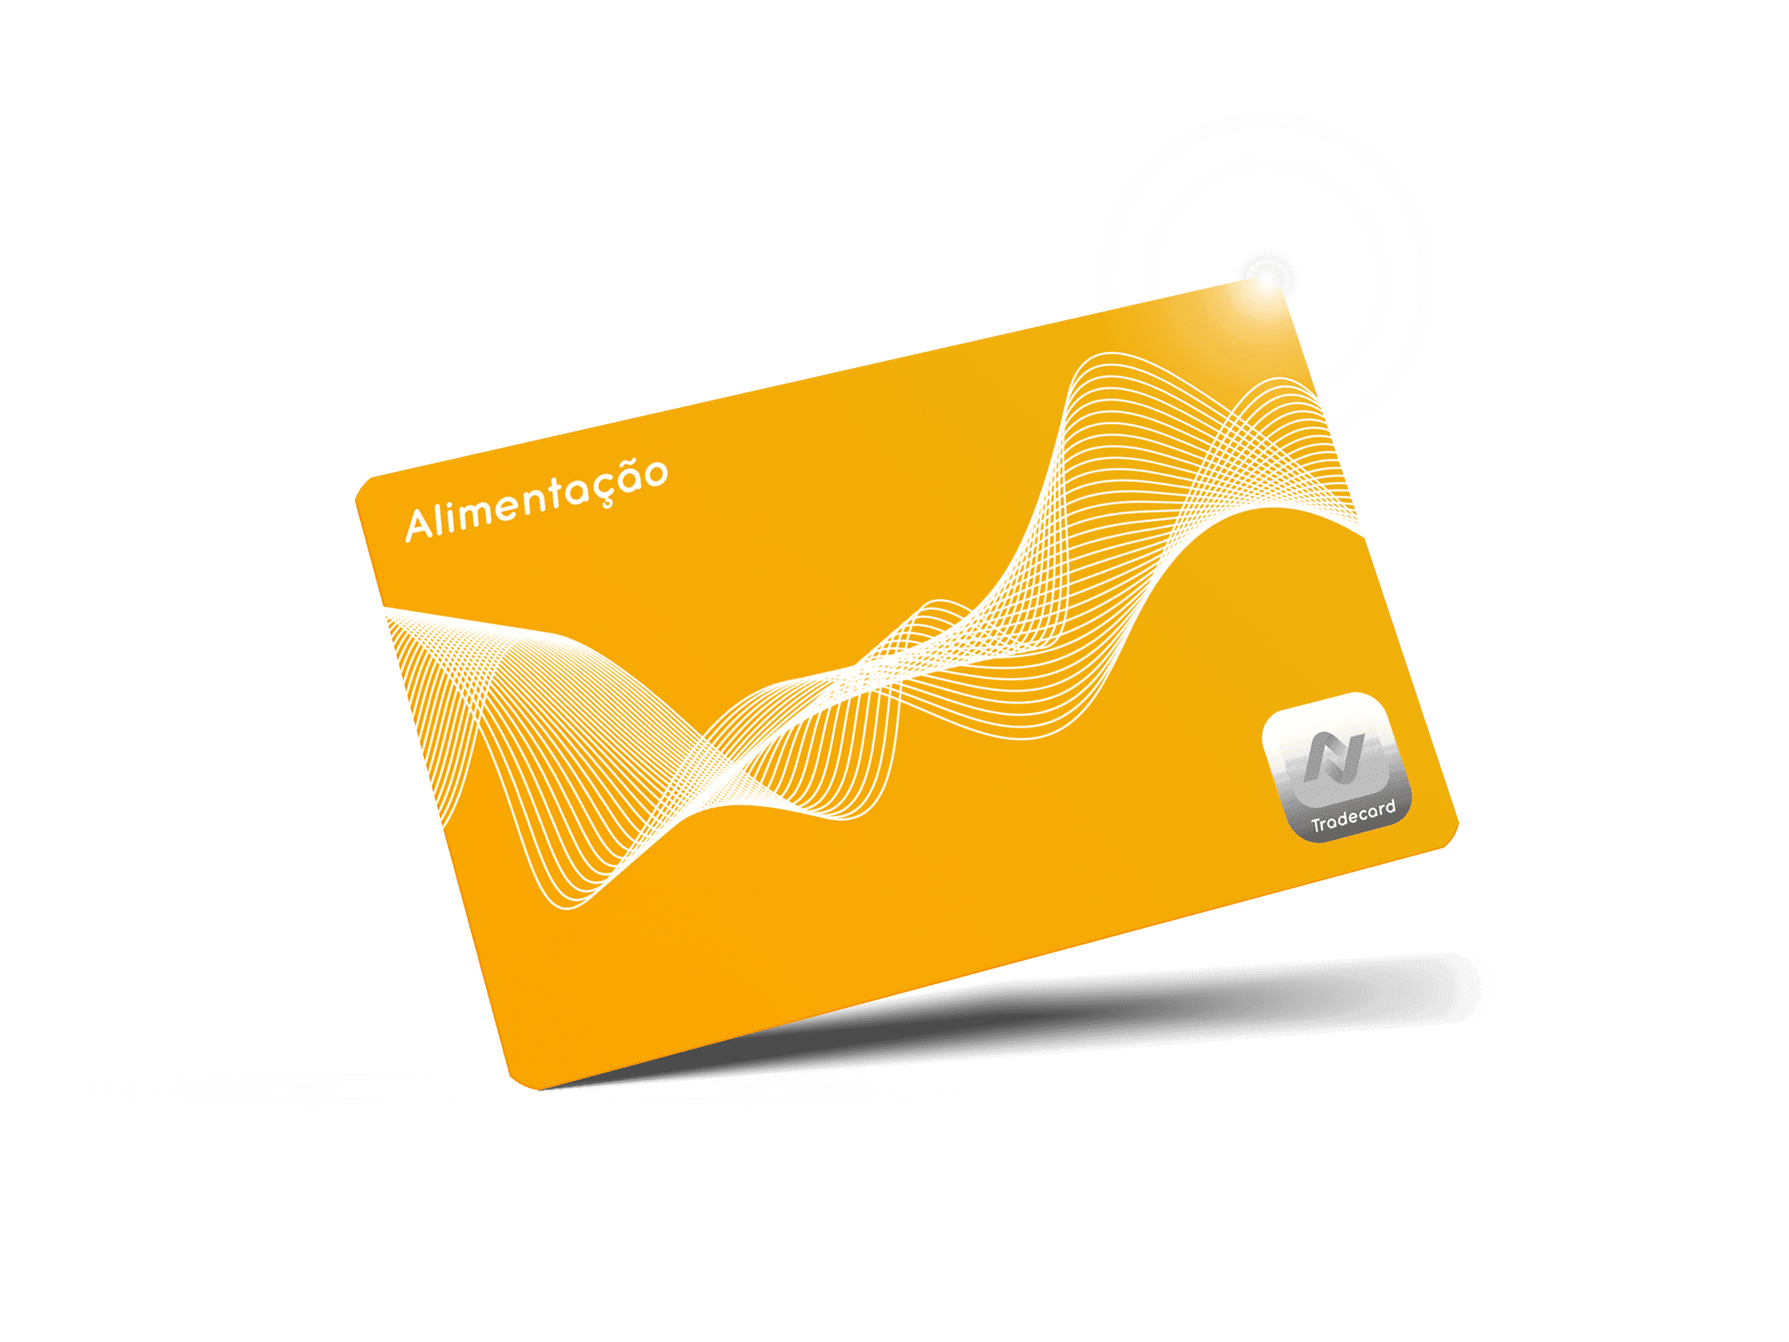
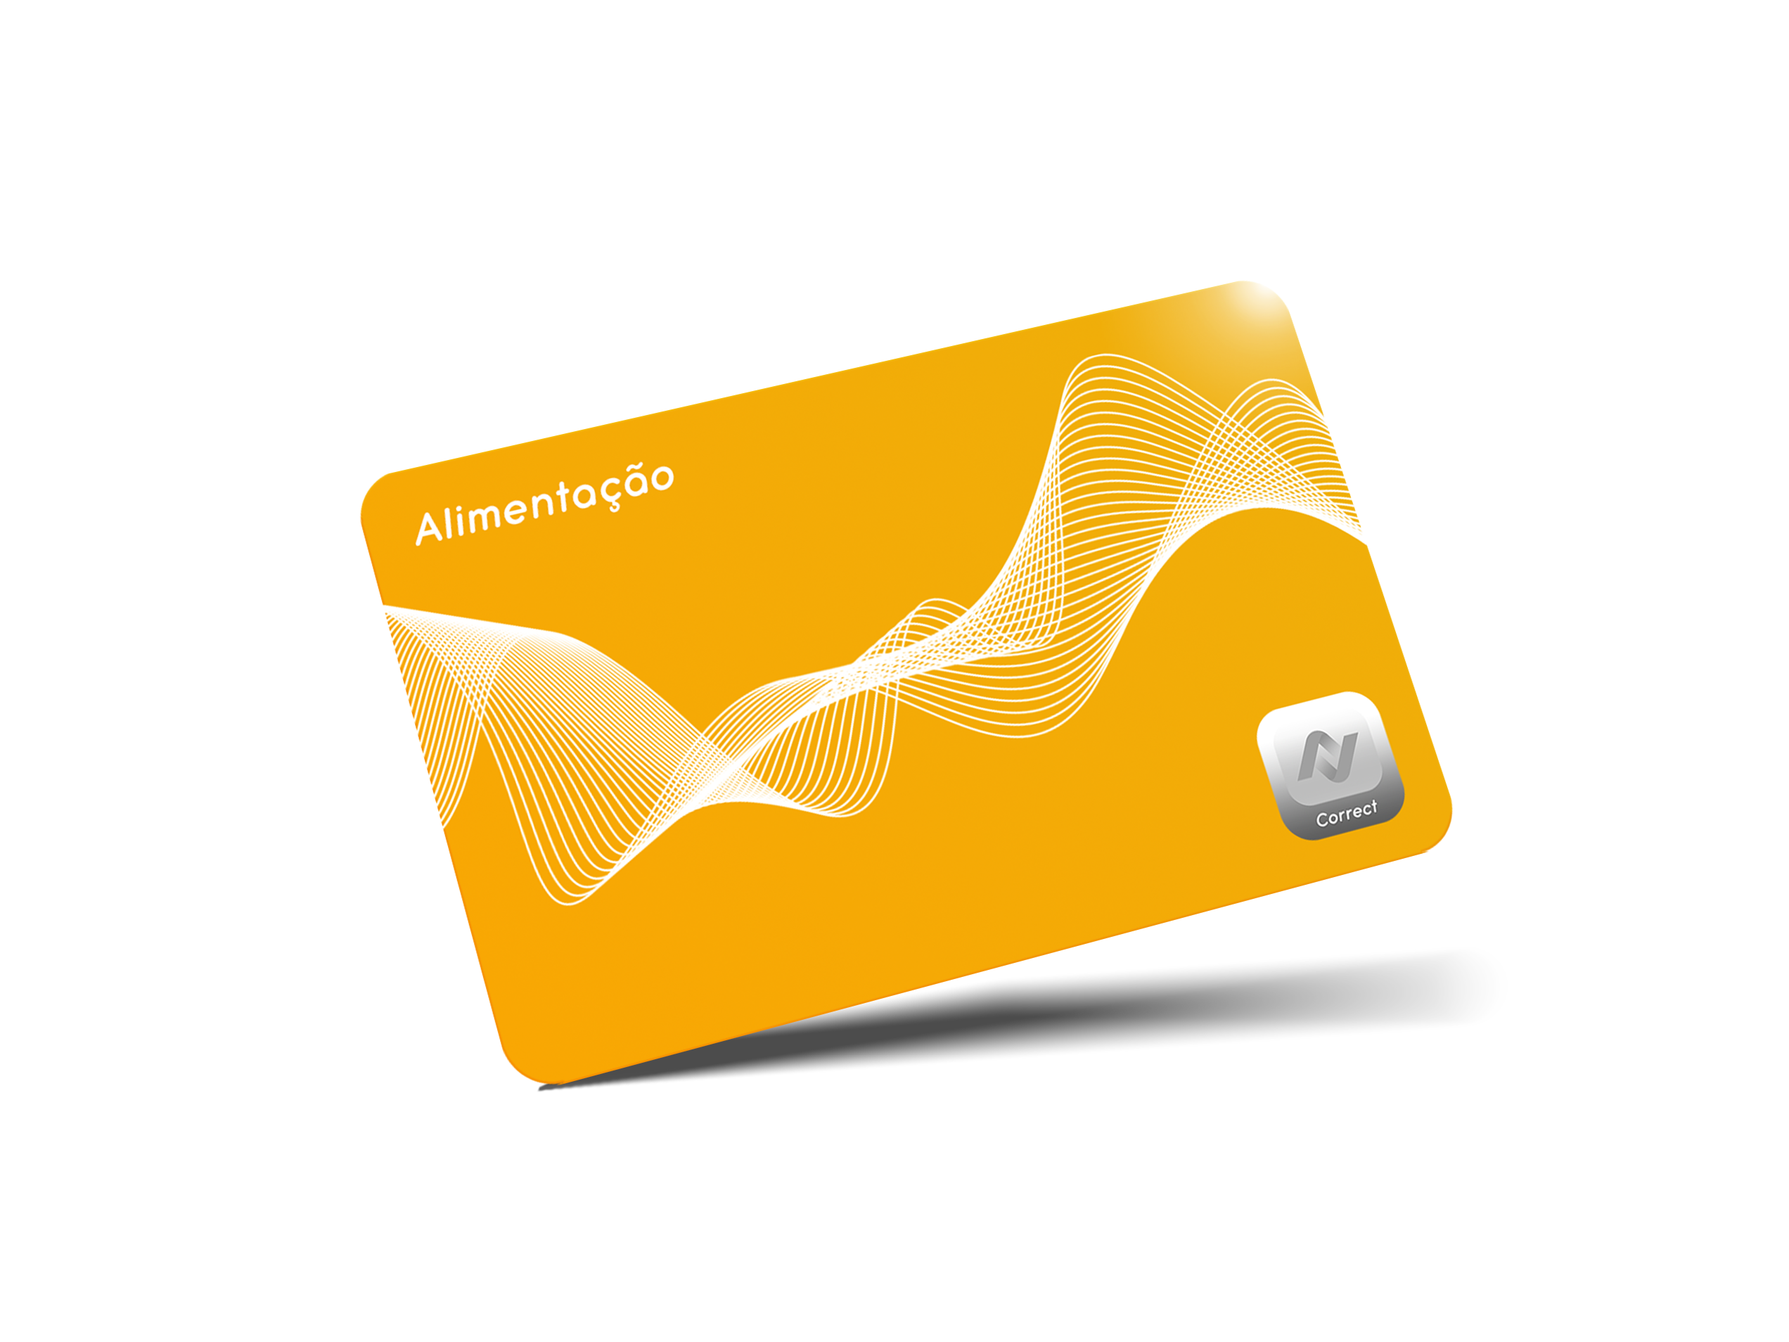
Alteração imagens para Correct

diff --git a/src/components/vantagens/Vantagens.js b/src/components/vantagens/Vantagens.js
@@ -29,18 +29,18 @@ export default function Vantagens() {
   return (
     <Row className='text-light justify-content-center align-items-center'>
         
-        {/* Tradeclub */}
+        {/* CorrectClub */}
         <Box className='row align-items-center justify-content-center' pose={isVisible ? 'visible' : 'hidden'}>
           <Col sm={6} className='d-flex justify-content-center align-items-center'>
             <Image src={require('../../assets/wallet.png')} style={{width: '100%'}} rounded fluid/>
           </Col>
           <Col sm={5} className='text-light align-content-center m-1'>
             <h3 className='text-left'>
-              Tradeclub
+            CorrectClub
             </h3>
             <p className="text-justify tamanho">
               Carteira Virtual que carrega todos os cartões (benefícios e crédito). Tem a opção de escolha do cartão para efetuar pagamentos. 
-              Utiliza único sistema “APP TRADECARD para pagamentos e controle, utilizando senha única, válida para todos os cartões. Conta também, 
+              Utiliza único sistema “APP CORRECT para pagamentos e controle, utilizando senha única, válida para todos os cartões. Conta também, 
               com arquivos de agenda e cadastros necessários para o dia a dia. 
               Todas informações da carteira são criptografadas, por questões de segurança. 
             </p>
@@ -50,7 +50,7 @@ export default function Vantagens() {
         {/* Inicio serviços */}
         {/* Delivery */}
         <Box className='row darkBlue align-items-center justify-content-center' pose={isVisible ? 'visible' : 'hidden'}>
-          <Col sm={12}> <h1 className='text-center mt-5'>Serviços do Aplicativo Tradeclub</h1> </Col>
+          <Col sm={12}> <h1 className='text-center mt-5'>Serviços do Aplicativo Correct</h1> </Col>
           <Col sm={6} className='d-flex justify-content-center align-items-center'>
             <Image src={require('../../assets/cartoes/card_delivery.png')} style={{width: '100%'}} rounded fluid/>
           </Col>
@@ -83,7 +83,7 @@ export default function Vantagens() {
 
       <Box className='row darkBlue p-5' pose={isVisible ? 'visible' : 'hidden'}>
         <h3 className='text-center col-12 pt-5'>
-          Para o <strong>TRADECLUB</strong>, a Tradecard foi além dos benefícios de um Clube, chega a tudo que um Banco pode oferecer, 
+          Para o <strong>CORRECTCLUB</strong>, a Correct foi além dos benefícios de um Clube, chega a tudo que um Banco pode oferecer, 
           agregando <strong>muito mais benefícios</strong> aos seus usuários. 
         </h3>
         <Col sm={12} className='mt-3 mb-3'>
@@ -93,7 +93,7 @@ export default function Vantagens() {
                 <li>
                   <IoMdCheckmark className='icon-vantagens' /> 
                   <span>
-                    Ganha um <strong>Banco</strong> de presente, podendo utilizar vários recursos <strong>sem taxas e juros</strong>, através do APP Tradecard;
+                    Ganha um <strong>Banco</strong> de presente, podendo utilizar vários recursos <strong>sem taxas e juros</strong>, através do APP Correct;
                   </span>
                 </li>
                 <li>
@@ -134,7 +134,7 @@ export default function Vantagens() {
                 <li>
                   <IoMdCheckmark className='icon-vantagens'/>
                   <span>
-                    TradeShop <strong>(com grandes promoções pontuais)</strong>
+                    CorrectShop <strong>(com grandes promoções pontuais)</strong>
                   </span>
                 </li>
                 <li>
@@ -150,7 +150,7 @@ export default function Vantagens() {
                 <li>
                   <IoMdCheckmark className='icon-vantagens'/>
                   <span>
-                    <strong>Controle financeiro</strong> através de relatórios da conta de pagamentos Tradecard;        
+                    <strong>Controle financeiro</strong> através de relatórios da conta de pagamentos Correct;        
                   </span>
                 </li>
                 <li>
@@ -182,10 +182,10 @@ export default function Vantagens() {
           </Row>
         </Col>
         <p className='col-12 text-center pb-5'>
-          A Tradecard não cobra nada por estes produtos/serviços, quando implanta em Empresas/Órgãos Públicos (Sistema Corporativo), como benefícios e, 
+          A Correct não cobra nada por estes produtos/serviços, quando implanta em Empresas/Órgãos Públicos (Sistema Corporativo), como benefícios e, 
           muito pelo contrário, dá ao Colaborador/Servidor, <strong>KRATS (Cashback) em cada compra efetuada</strong> (KRATS é dinheiro virtual equivalente ao Real).
           O objetivo desses benefícios é <strong>proporcionar uma vida melhor e segura</strong> para os Colaboradores/Servidores, <strong>evitando o endividamento</strong>, não permitindo caírem nas armadilhas de créditos fáceis. 
-          Possibilita ainda, o <strong>controle absoluto de seus gastos na palma de sua mão, através do APP TRADECLUB.</strong>
+          Possibilita ainda, o <strong>controle absoluto de seus gastos na palma de sua mão, através do APP CORRECT.</strong>
         </p>
       </Box>
     </Row>

diff --git a/src/components/produtos/VantagensProdutos.js b/src/components/produtos/VantagensProdutos.js
@@ -17,19 +17,19 @@ export default function VantagensProdutos() {
               <Col sm={6} className='text-light'>
                 <h3 className='mb-3 text-center'>
                   Para os cartões de <strong> Adiantamento Salarial</strong> e <strong>Convênio</strong>, 
-                  a <strong>Tradecard</strong> oferece as seguintes vantagens:
+                  a <strong>Correct</strong> oferece as seguintes vantagens:
                 </h3>
                 <ul className="products">
                   <li>
                     <GiBank className='icon-vantagens'/> 
                     <span>
-                      Ganha um <strong>Banco</strong> de presente, podendo utilizar vários recursos <strong>sem taxas e juros</strong>, através do <strong>APP Tradecard</strong>;
+                      Ganha um <strong>Banco</strong> de presente, podendo utilizar vários recursos <strong>sem taxas e juros</strong>, através do <strong>APP Correct</strong>;
                     </span>
                   </li>
                   <li>
                     <GiBuyCard className='icon-vantagens'/>
                     <span>
-                      Compras na Rede <strong>Tradeclub com prazo (média de 45 dias) e sem juros;</strong>
+                      Compras na Rede <strong>Correct com prazo (média de 45 dias) e sem juros;</strong>
                     </span>
                   </li>
                   <li>
@@ -47,13 +47,13 @@ export default function VantagensProdutos() {
                   <li>
                     <MdRedeem className='icon-vantagens'/> 
                     <span>
-                      <strong>Rede TRADECLUB</strong> de compras na cidade, podendo inclusive, dar sugestões de estabelecimentos comerciais de sua preferência;
+                      <strong>Rede Correct</strong> de compras na cidade, podendo inclusive, dar sugestões de estabelecimentos comerciais de sua preferência;
                     </span>
                   </li>
                   <li>
                     <GiCardExchange className='icon-vantagens'/> 
                     <span>
-                      Ganha <strong>KRATS (Cashback)</strong> em todas as compras realizadas, que é creditado automaticamente em sua conta de pagamentos, no Cartão do Clube de Vantagens - TRADECLUB;
+                      Ganha <strong>KRATS (Cashback)</strong> em todas as compras realizadas, que é creditado automaticamente em sua conta de pagamentos, no Cartão do Clube de Vantagens - CORRECTCLUB;
                     </span>
                   </li>
                   <li>
@@ -82,13 +82,13 @@ export default function VantagensProdutos() {
             <Row className='p-5'>
               <Col sm={6} className='text-light'>
                 <h3 className='text-center'>
-                  Para os cartões de <strong>Alimentação</strong> e <strong>Refeição</strong>, a <strong>Tradecard</strong> oferece as seguintes vantagens:
+                  Para os cartões de <strong>Alimentação</strong> e <strong>Refeição</strong>, a <strong>Correct</strong> oferece as seguintes vantagens:
                 </h3>
                 <ul className="products">
                   <li>
                     <GiBank className='icon-vantagens'/> 
                     <span>
-                      Ganha um <strong>Banco</strong> de presente, podendo utilizar vários recursos <strong>sem taxas e juros</strong>, através do <strong>APP Tradecard</strong>;
+                      Ganha um <strong>Banco</strong> de presente, podendo utilizar vários recursos <strong>sem taxas e juros</strong>, através do <strong>APP Correct</strong>;
                     </span>
                   </li>
                   <li>
@@ -106,7 +106,7 @@ export default function VantagensProdutos() {
                   <li>
                     <GiCardExchange className='icon-vantagens'/> 
                     <span>
-                      <strong>Ganha KRATS (Cashback)</strong> em todas as compras realizadas, que é creditado automaticamente em sua conta de pagamentos, no Cartão do Clube de Vantagens - TRADECLUB;
+                      <strong>Ganha KRATS (Cashback)</strong> em todas as compras realizadas, que é creditado automaticamente em sua conta de pagamentos, no Cartão do Clube de Vantagens - CORRECTCLUB;
                     </span>
                   </li>
                   <li>

diff --git a/src/components/sobre_nos/SobreNos.js b/src/components/sobre_nos/SobreNos.js
@@ -30,7 +30,7 @@ export default function SobreNos(){
             <Row className='backgroundImage d-flex justify-content-center'>
                 <Box pose={isVisible ? 'visible' : 'hidden'} className='align-items-center row col-10'>
                     <p className="description">
-                        A <strong>Tradecard</strong> surgiu no Brasil em 2018, com a finalidade de trazer o que existe de mais moderno e inovador, nas áreas de Recursos Humanos (benefícios), 
+                        A <strong>Correct</strong> surgiu no Brasil em 2018, com a finalidade de trazer o que existe de mais moderno e inovador, nas áreas de Recursos Humanos (benefícios), 
                         <strong> Compras, Pagamentos, Empréstimos, Economia, Saúde, Bem Estar, Diversão, Segurança e muitas outras</strong>.
                     </p>
                 </Box>
@@ -39,7 +39,7 @@ export default function SobreNos(){
                 <Box pose={isVisible ? 'visible' : 'hidden'} className='col-6 align-items-center justify-content-center d-flex' style={{flexDirection: 'column'}}>
                     <h2 className='whiteFont'>Para o mundo corporativo:</h2>
                     <p  className='whiteFont'>
-                        Para o mundo corporativo, em abril de 2020, a <strong>Tradecard lança no mercado brasileiro</strong>, grandes novidades na <strong>área de Recursos Humanos - Benefícios,  
+                        Para o mundo corporativo, em abril de 2020, a <strong>Correct lança no mercado brasileiro</strong>, grandes novidades na <strong>área de Recursos Humanos - Benefícios,  
                         transformando o que caracteriza produtos de benefícios, como Vales Alimentação, Refeição, Combustível, Adiantamento Salarial, Empréstimos Consignado (juros reduzidos), 
                         Programas de Saúde e outros, em uma Plataforma de Auto-gestão de Benefícios</strong>, permitindo aos gestores a liberdade de acesso decisório quanto à escolha do tipo e prazo de duração, 
                         permitindo ainda a definição dos parâmetros necessários a concessão de cada benefícios, adaptando-os às suas políticas internas, leis, sindicatos e outros motivos se houverem.
@@ -58,8 +58,8 @@ export default function SobreNos(){
                     <p  className='whiteFont'>
                         Para o mundo moderno das pessoas físicas que se importam com a <strong>praticidade dos procedimentos, 
                         com a desburocratização, obtenção de descontos e economia, com o avanço da tecnologia e suas tendências, 
-                        para obter vantagens nas atividades do seu dia a dia</strong>, a Tradecard, como princípio, proporciona o melhor relacionamento 
-                        com todos que são envolvidos nesses processos e revoluciona sua atuação, com a composição de vários serviços em um só instrumento <strong>“APP TRADECLUB”</strong>, 
+                        para obter vantagens nas atividades do seu dia a dia</strong>, a Correct, como princípio, proporciona o melhor relacionamento 
+                        com todos que são envolvidos nesses processos e revoluciona sua atuação, com a composição de vários serviços em um só instrumento <strong>“APP CORRECTCLUB”</strong>, 
                         permitindo com facilidade e comodidade, o controle na palma da sua mão. Basta um celular!
                     </p>
                 </Box>

diff --git a/src/components/aplicativos/Aplicativos.js b/src/components/aplicativos/Aplicativos.js
@@ -37,13 +37,13 @@ export default function Aplicativos(){
 
                 <Col>
                     <Box pose={isVisible ? 'visible' : 'hidden'}>
-                        <h3 className='text-light app-title' style={{fontWeight: 600}}>APP Tradecard</h3>
+                        <h3 className='text-light app-title' style={{fontWeight: 600}}>APP Correct</h3>
                         <p className='text-light text-justify mb-5 app-description' >
                             Para o mundo moderno das pessoas físicas que se importam com a praticidade dos procedimentos, 
                             com a desburocratização, obtenção de descontos e economia, com o avanço da tecnologia e suas tendências, 
-                            para obter vantagens nas atividades do seu dia a dia, a Tradecard, como princípio, proporciona o melhor 
+                            para obter vantagens nas atividades do seu dia a dia, a Correct, como princípio, proporciona o melhor 
                             relacionamento com todos que são envolvidos nesses processos e revoluciona sua atuação, com a composição de vários serviços em um só instrumento 
-                            <strong> "APP Tradecard"</strong>, permitindo com facilidade e comodidade, o controle na palma da sua mão. Basta um celular!
+                            <strong> "APP Correct"</strong>, permitindo com facilidade e comodidade, o controle na palma da sua mão. Basta um celular!
                         </p>
                         <a href='#'> <Image src={require('../../assets/download_google_play.png')} style={{width: '20%'}} className='icon-download' rounded fluid/> </a>
                         <a href='#'> <Image src={require('../../assets/download_app_store.png')} style={{width: '21%'}} className='ml-5 icon-download' rounded fluid/> </a>
@@ -53,9 +53,9 @@ export default function Aplicativos(){
             <Row className='justify-content-between container-margin'>
                 <Col className='p-0'>
                     <Box pose={isVisible ? 'visible' : 'hidden'}>
-                        <h3 className='text-light app-title' style={{fontWeight: 600}}>Módulo de vendas - Tradecard</h3>
+                        <h3 className='text-light app-title' style={{fontWeight: 600}}>Módulo de vendas - Correct</h3>
                         <p className='text-light text-justify app-description'>
-                            O Módulo de vendas da Tradecard permite realizar vendas através de QR-Code e Token com técnologia e segurança de ponta!
+                            O Módulo de vendas da Correct permite realizar vendas através de QR-Code e Token com técnologia e segurança de ponta!
                         </p>
                         <a href='#'> <Image src={require('../../assets/download_windows.png')} style={{width: '28%'}} className='mt-4 icon-download' rounded fluid/> </a>
                     </Box>

diff --git a/src/components/navbar/Navbar.js b/src/components/navbar/Navbar.js
@@ -12,7 +12,7 @@ export default function NavBar(){
             </Navbar.Toggle>
             <Navbar.Collapse id="basic-navbar-nav">
                 <Nav className="align-items-center justify-content-center margin-auto">
-                    <Nav.Link><img src={require('../../assets/tradecard_logo_white.png')} className="logo" alt='Tradecard Logo'/></Nav.Link>
+                    <Nav.Link><img src={require('../../assets/CORRECT_BRANCO.png')} className="logo" alt='Correct Logo'/></Nav.Link>
                     <Nav.Link><Link className='navbar-link-trade' to='/sobre_nos'>Sobre nós</Link></Nav.Link>
                     <Nav.Link><Link className='navbar-link-trade' to='/produtos'>Para empresas</Link></Nav.Link>
                     <Nav.Link><Link className='navbar-link-trade' to='/vantagens'>Carteira</Link></Nav.Link> 

diff --git a/src/components/rede_compras/RedeDeCompras.js b/src/components/rede_compras/RedeDeCompras.js
@@ -122,7 +122,7 @@ class RedeDeCompras extends React.Component {
                         </Col>
                         <h5 className='col-12'>Aviso:</h5>
                         <Col sm={12} style={{fontSize: '10px'}}>
-                            <p className="aviso">Os créditos do seu cartão Tradeclub não poderão ser utilizados como meio de pagamento.</p><br/>
+                            <p className="aviso">Os créditos do seu cartão CorrectClub não poderão ser utilizados como meio de pagamento.</p><br/>
                             <p className="aviso">Consulte as regras e formas de pagamento de cada parceiro nacional.</p>
                         </Col>
                     </Col>

diff --git a/src/components/rede_compras/estabInfo.js b/src/components/rede_compras/estabInfo.js
@@ -61,7 +61,7 @@ function EstabInfo({ children, ...props }) {
                 <h4>Aviso:</h4>
             </Row>
             <Row>
-              <p className="aviso">Os créditos do seu cartão Tradeclub não poderão ser utilizados como meio de pagamento.</p><br/>
+              <p className="aviso">Os créditos do seu cartão Correct não poderão ser utilizados como meio de pagamento.</p><br/>
             </Row>
             <Row>
               <p className="aviso">Consulte as regras e formas de pagamento de cada parceiro nacional.</p>

diff --git a/src/components/footer/Footer.js b/src/components/footer/Footer.js
@@ -31,7 +31,7 @@ export default function Footer() {
                 <a href='#'> <Image src={require('../../assets/download_app_store.png')} style={{width: '15vh', marginTop: 10}} rounded fluid/> </a>
             </Col>
             <Col sm={12} className="justify-content-center align-items-center d-flex mt-3 text-center" style={{color: '#ccc'}}>
-                © Tradecard 2018 - 2020 - Todos os direitos reservados.
+                © Correct 2018 - 2020 - Todos os direitos reservados.
             </Col>
         </Row>
     )

diff --git a/src/components/navbar/navbar.css b/src/components/navbar/navbar.css
@@ -1,7 +1,7 @@
 
 .logo{
-    width: 25vh;
-    padding: 0.5rem 0;
+    height:100px;
+    width:auto;
 }
 
 .navbar-link-trade{
